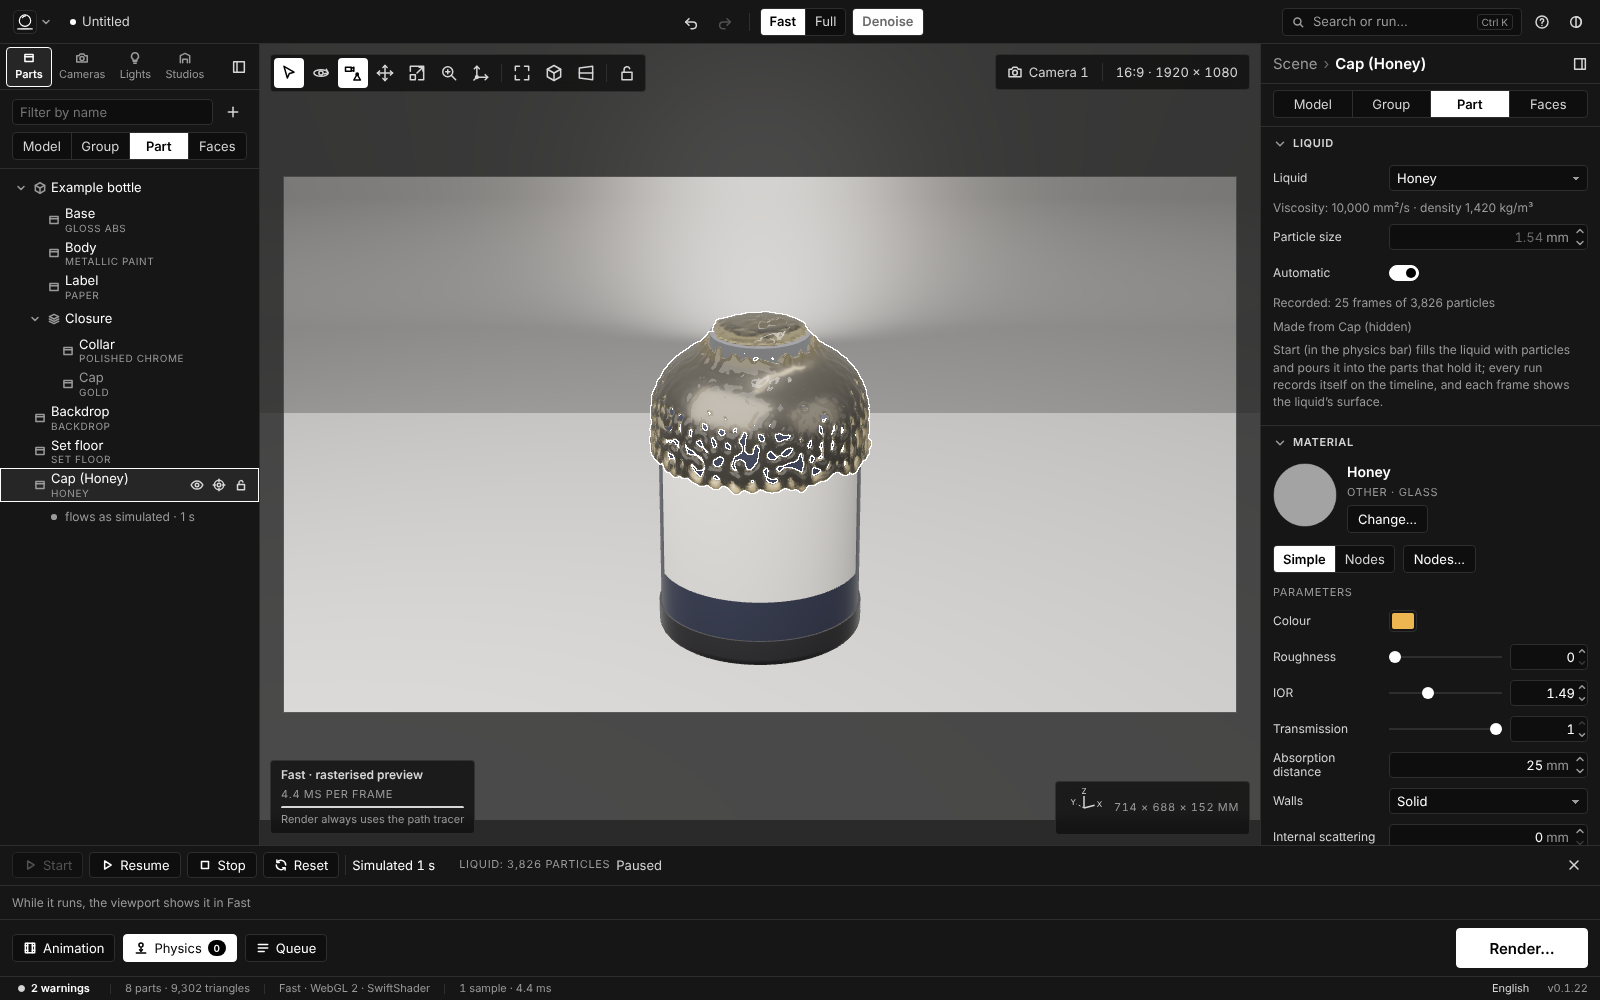
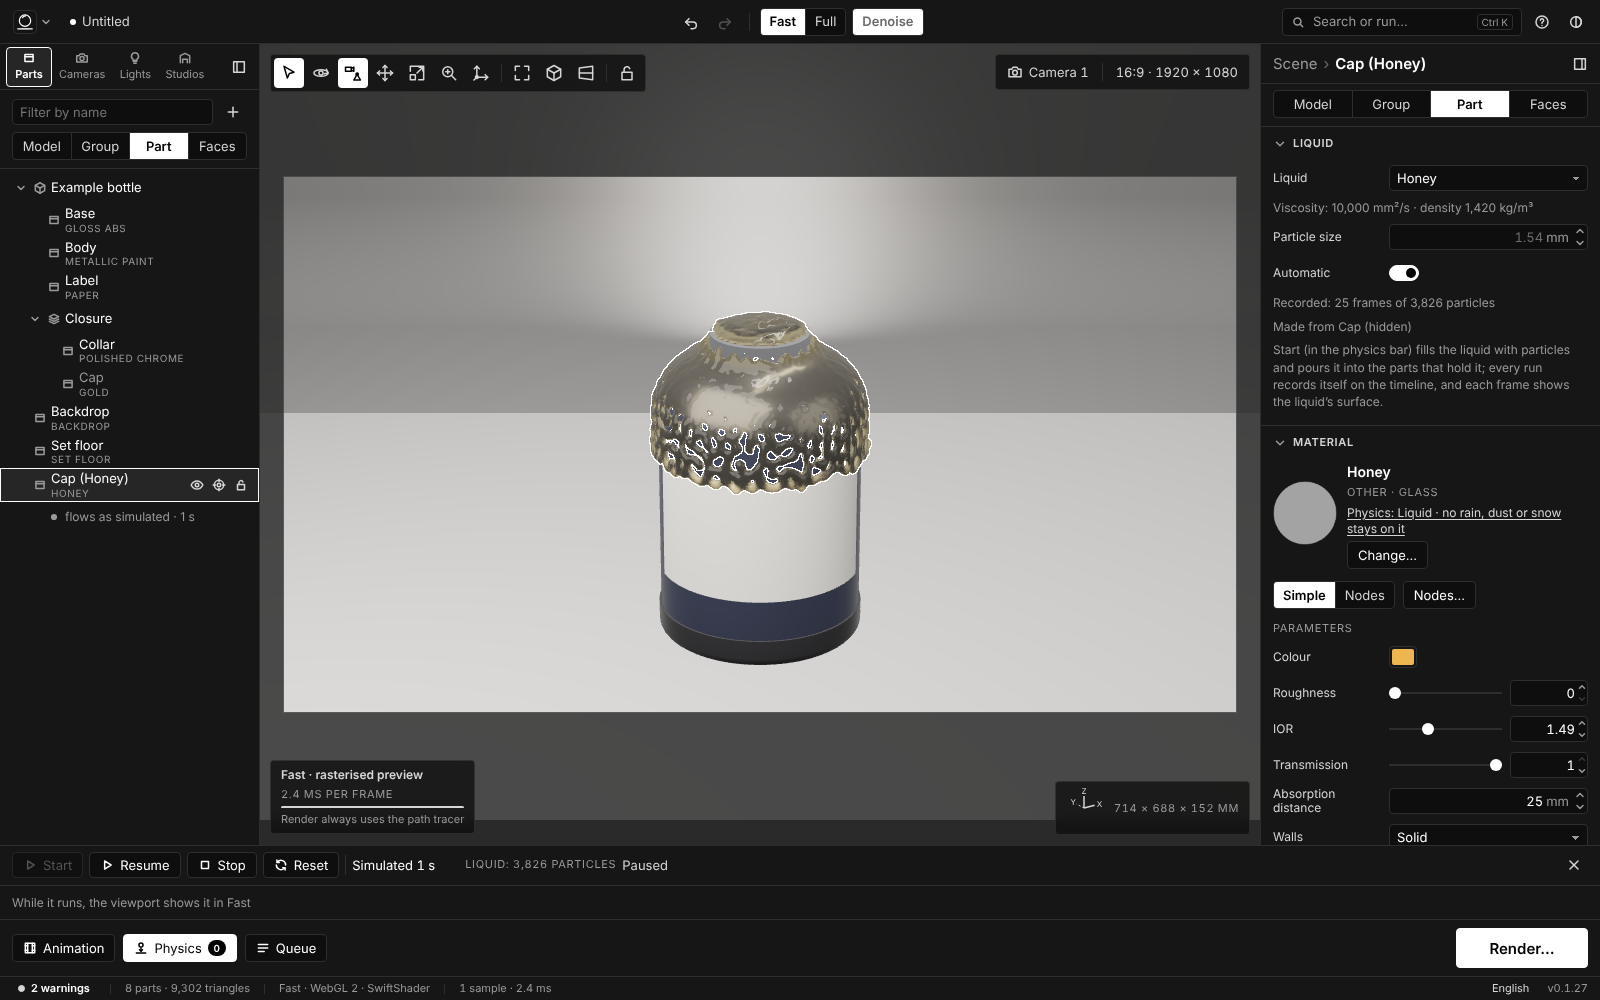
S7: the browser check clicks the bar's own Start and Pause; the pour capture of the merged interface
The Physics section has a Start button of its own now (U16), so the check
scopes its clicks to the physics bar. The pour is re-recorded on the merged
build (the Material section's pointer for a liquid shows).

Claude-Session: https://claude.ai/code/session_01Vyw8CoEN48cqBKpA2hjydX

diff --git a/docs/GALERIA.md b/docs/GALERIA.md
@@ -31,7 +31,7 @@ Liquids (S7).
 #### S7 · Liquids
 
 <a id="c-liquid-pour"></a><img src="ui/liquid-pour.png" width="480" alt="The example bottle in Fast with its cap converted to honey, paused at one simulated second: a glossy, lace-edged coat of liquid over the bottle's top and shoulders; the tree shows Cap hidden and Cap (Honey) with its clip flows as simulated, the inspector's Liquid section says Honey, viscosity 10,000 mm²/s, particle size 1.54 mm automatic, recorded 25 frames of 3,826 particles; the physics bar says Liquid: 3,826 particles, Paused."><br>
-`liquid-pour.png` · `c0bb8fe` · The example's *Cap* ▸ *Convert to liquid* ▸ *Honey* from the scene tree, then *Start* in the physics bar, paused at one simulated second (`tools/s7-check.mjs --only pour`): the cap is hidden and *Cap (Honey)* flows over the collar and the bottle's shoulders in *Fast*, its surface rebuilt by marching cubes every frame; the Liquid section says the preset, its motion, the automatic particle size and what the run recorded, and the timeline row says the clip *flows as simulated*. *Fast* draws the honey with the preview's glass (grey-gold against the dark studio), not the render's colour (S7).
+`liquid-pour.png` · `c0bb8fe` · The example's *Cap* ▸ *Convert to liquid* ▸ *Honey* from the scene tree, then *Start* in the physics bar, paused at one simulated second (`tools/s7-check.mjs --only pour`): the cap is hidden and *Cap (Honey)* flows over the collar and the bottle's shoulders in *Fast*, its surface rebuilt by marching cubes every frame; the Liquid section says the preset, its motion, the automatic particle size and what the run recorded, and the timeline row says the clip *flows as simulated*; under the material's name, U16's pointer says *Physics: Liquid · no rain, dust or snow stays on it*. *Fast* draws the honey with the preview's glass (grey-gold against the dark studio), not the render's colour (S7).
 
 <a id="c-liquid-sheet"></a><img src="ui/liquid-sheet.png" width="480" alt="A contact sheet of ten renders of a clear cylindrical glass on a grey floor, each with a liquid settled in its bottom third: water, oil (yellow), honey (amber), milk (white), gel (pale blue), syrup (dark amber), orange juice (opaque orange), red wine (nearly black at this depth), water a quarter of a second into the pour (splashing), and water without priorities; under each, its particles, simulated time, the surface's volume over the poured volume and the render's samples."><br>
 `liquid-sheet.png` · `8d7c358` · The liquids sheet (`rt --liquid-sheet out`, captured with `tools/s7-check.mjs --only sheet`): each preset poured into the example glass from a 40 × 40 × 55 mm block (5,400 particles at 2.5 mm, 2 s simulated), rendered with the glass at priority 2 over the liquid at 1 (nested dielectrics) and denoised; then water a quarter of a second into the pour, and water at rest without the priorities (its contact with the glass as against air). The captions give the rendered surface's volume over the poured one (0.999 to 1.017 at rest). The looks and motions are ◆ for the verdict: red wine's absorption of 6 mm makes a glass of it nearly black (S7).
